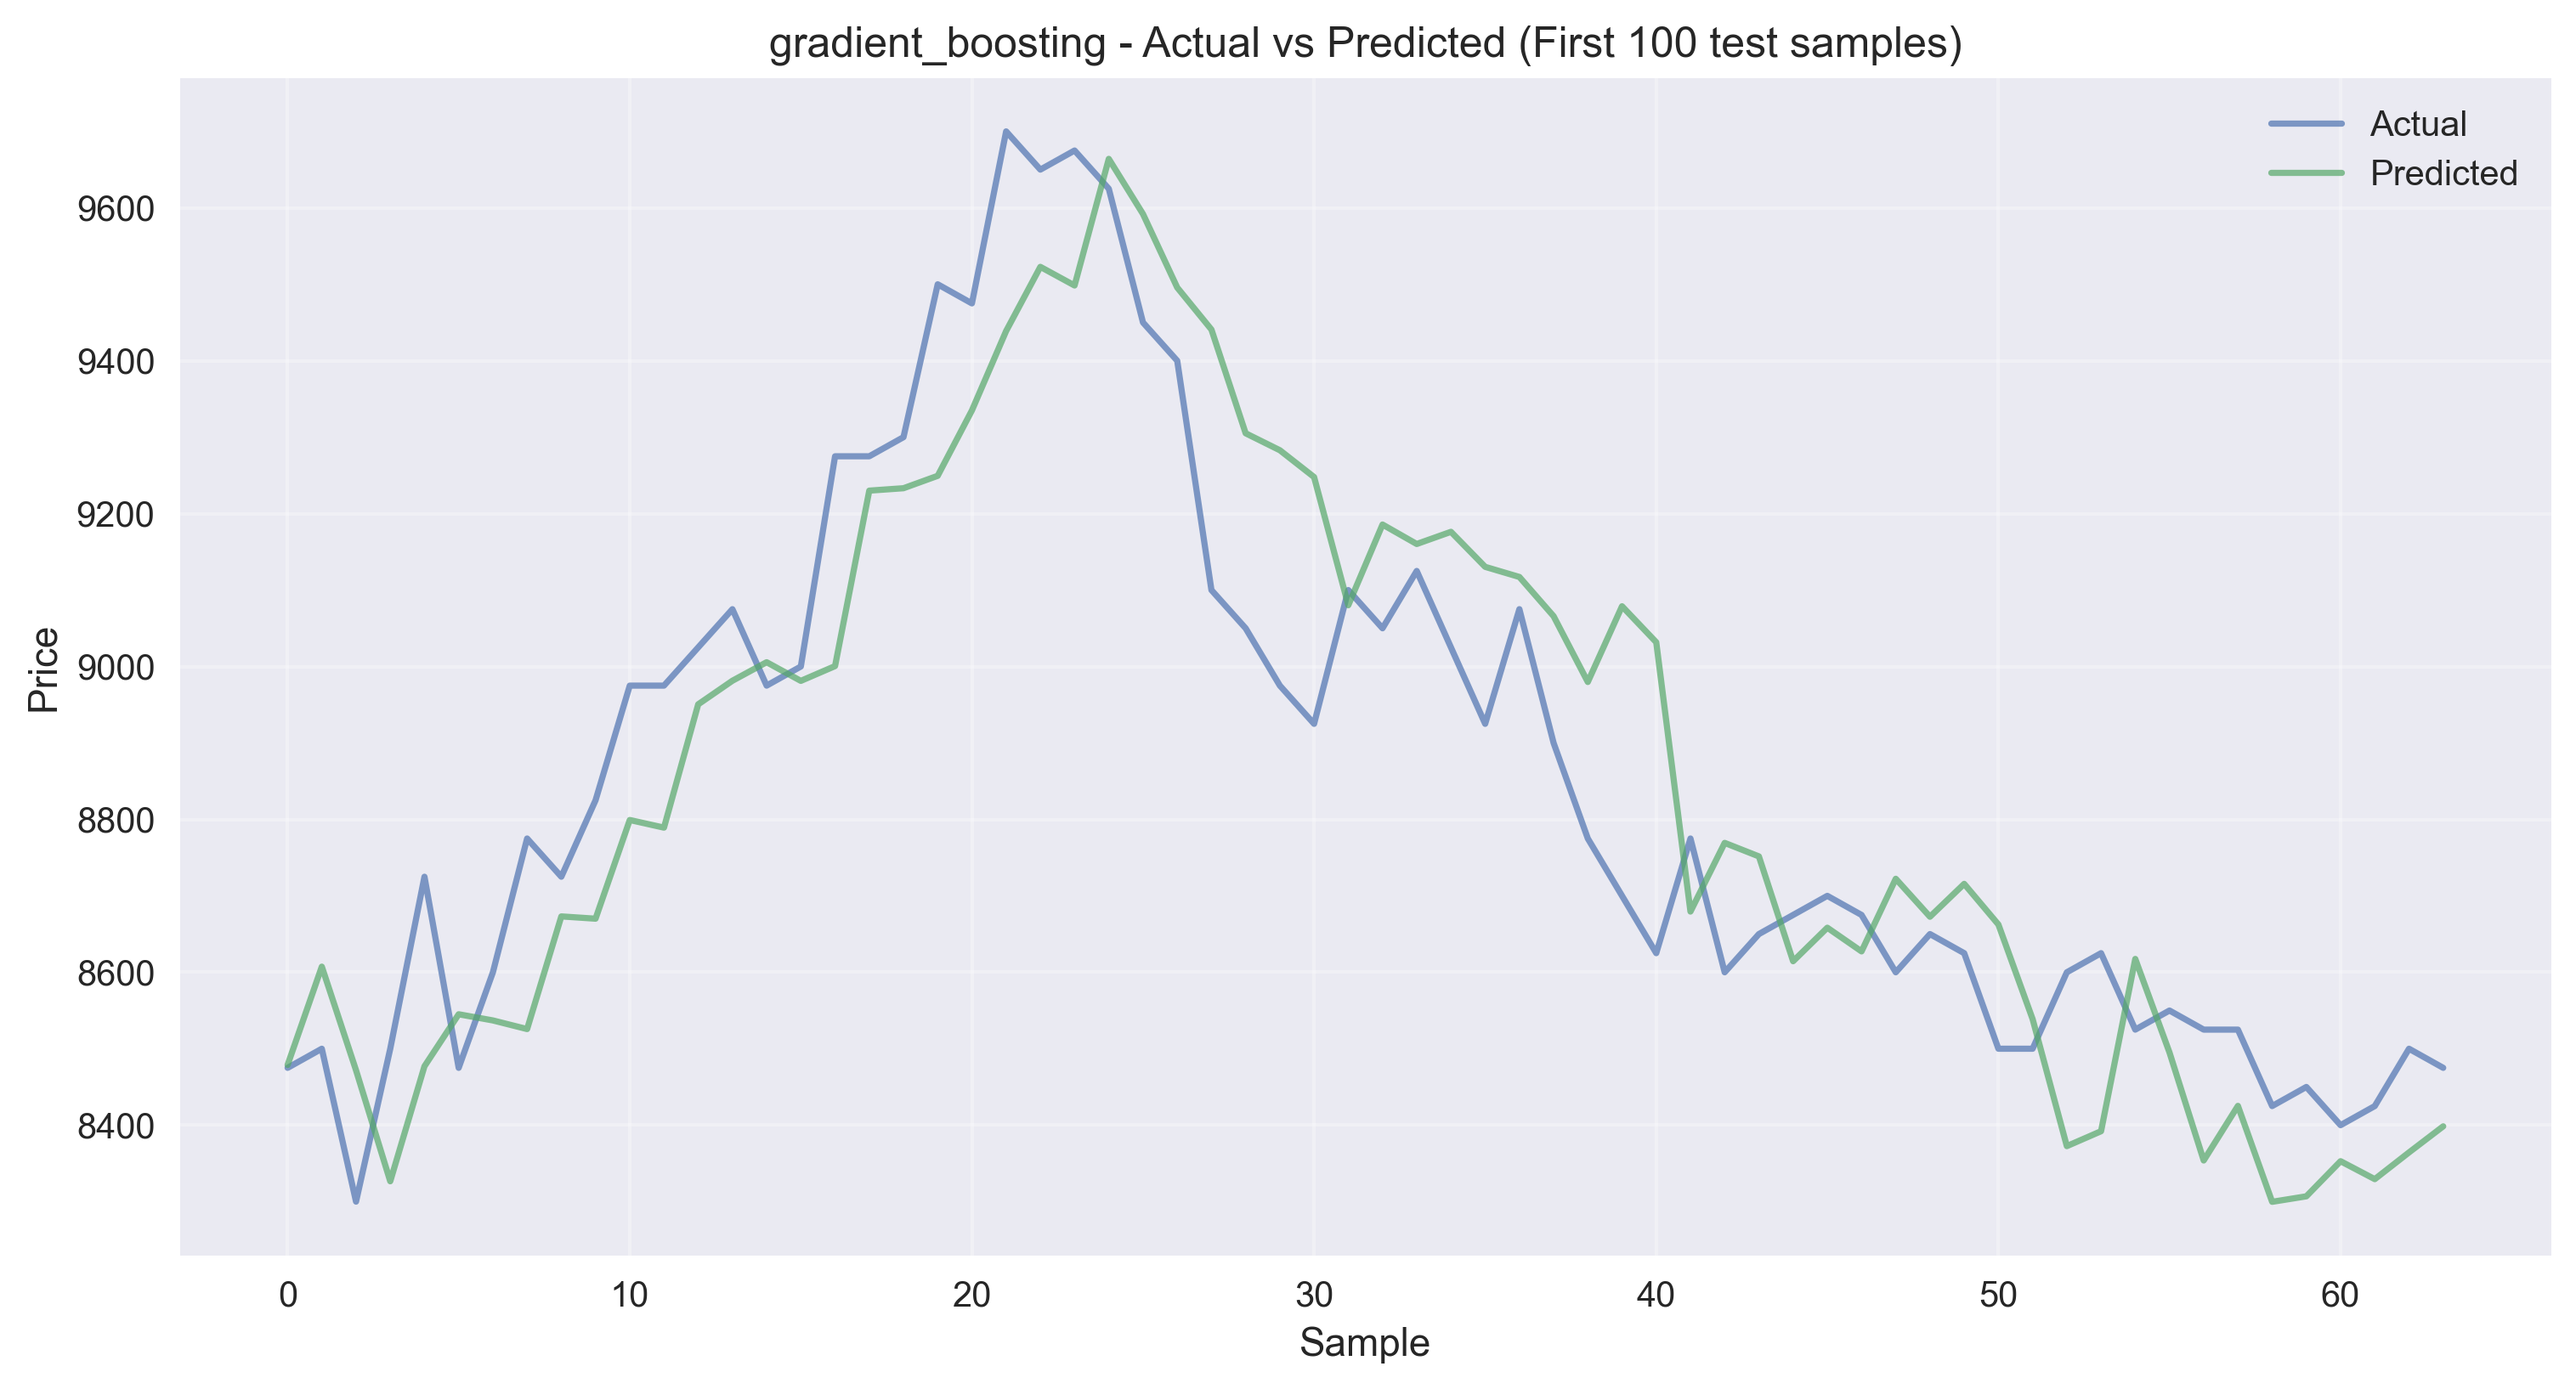
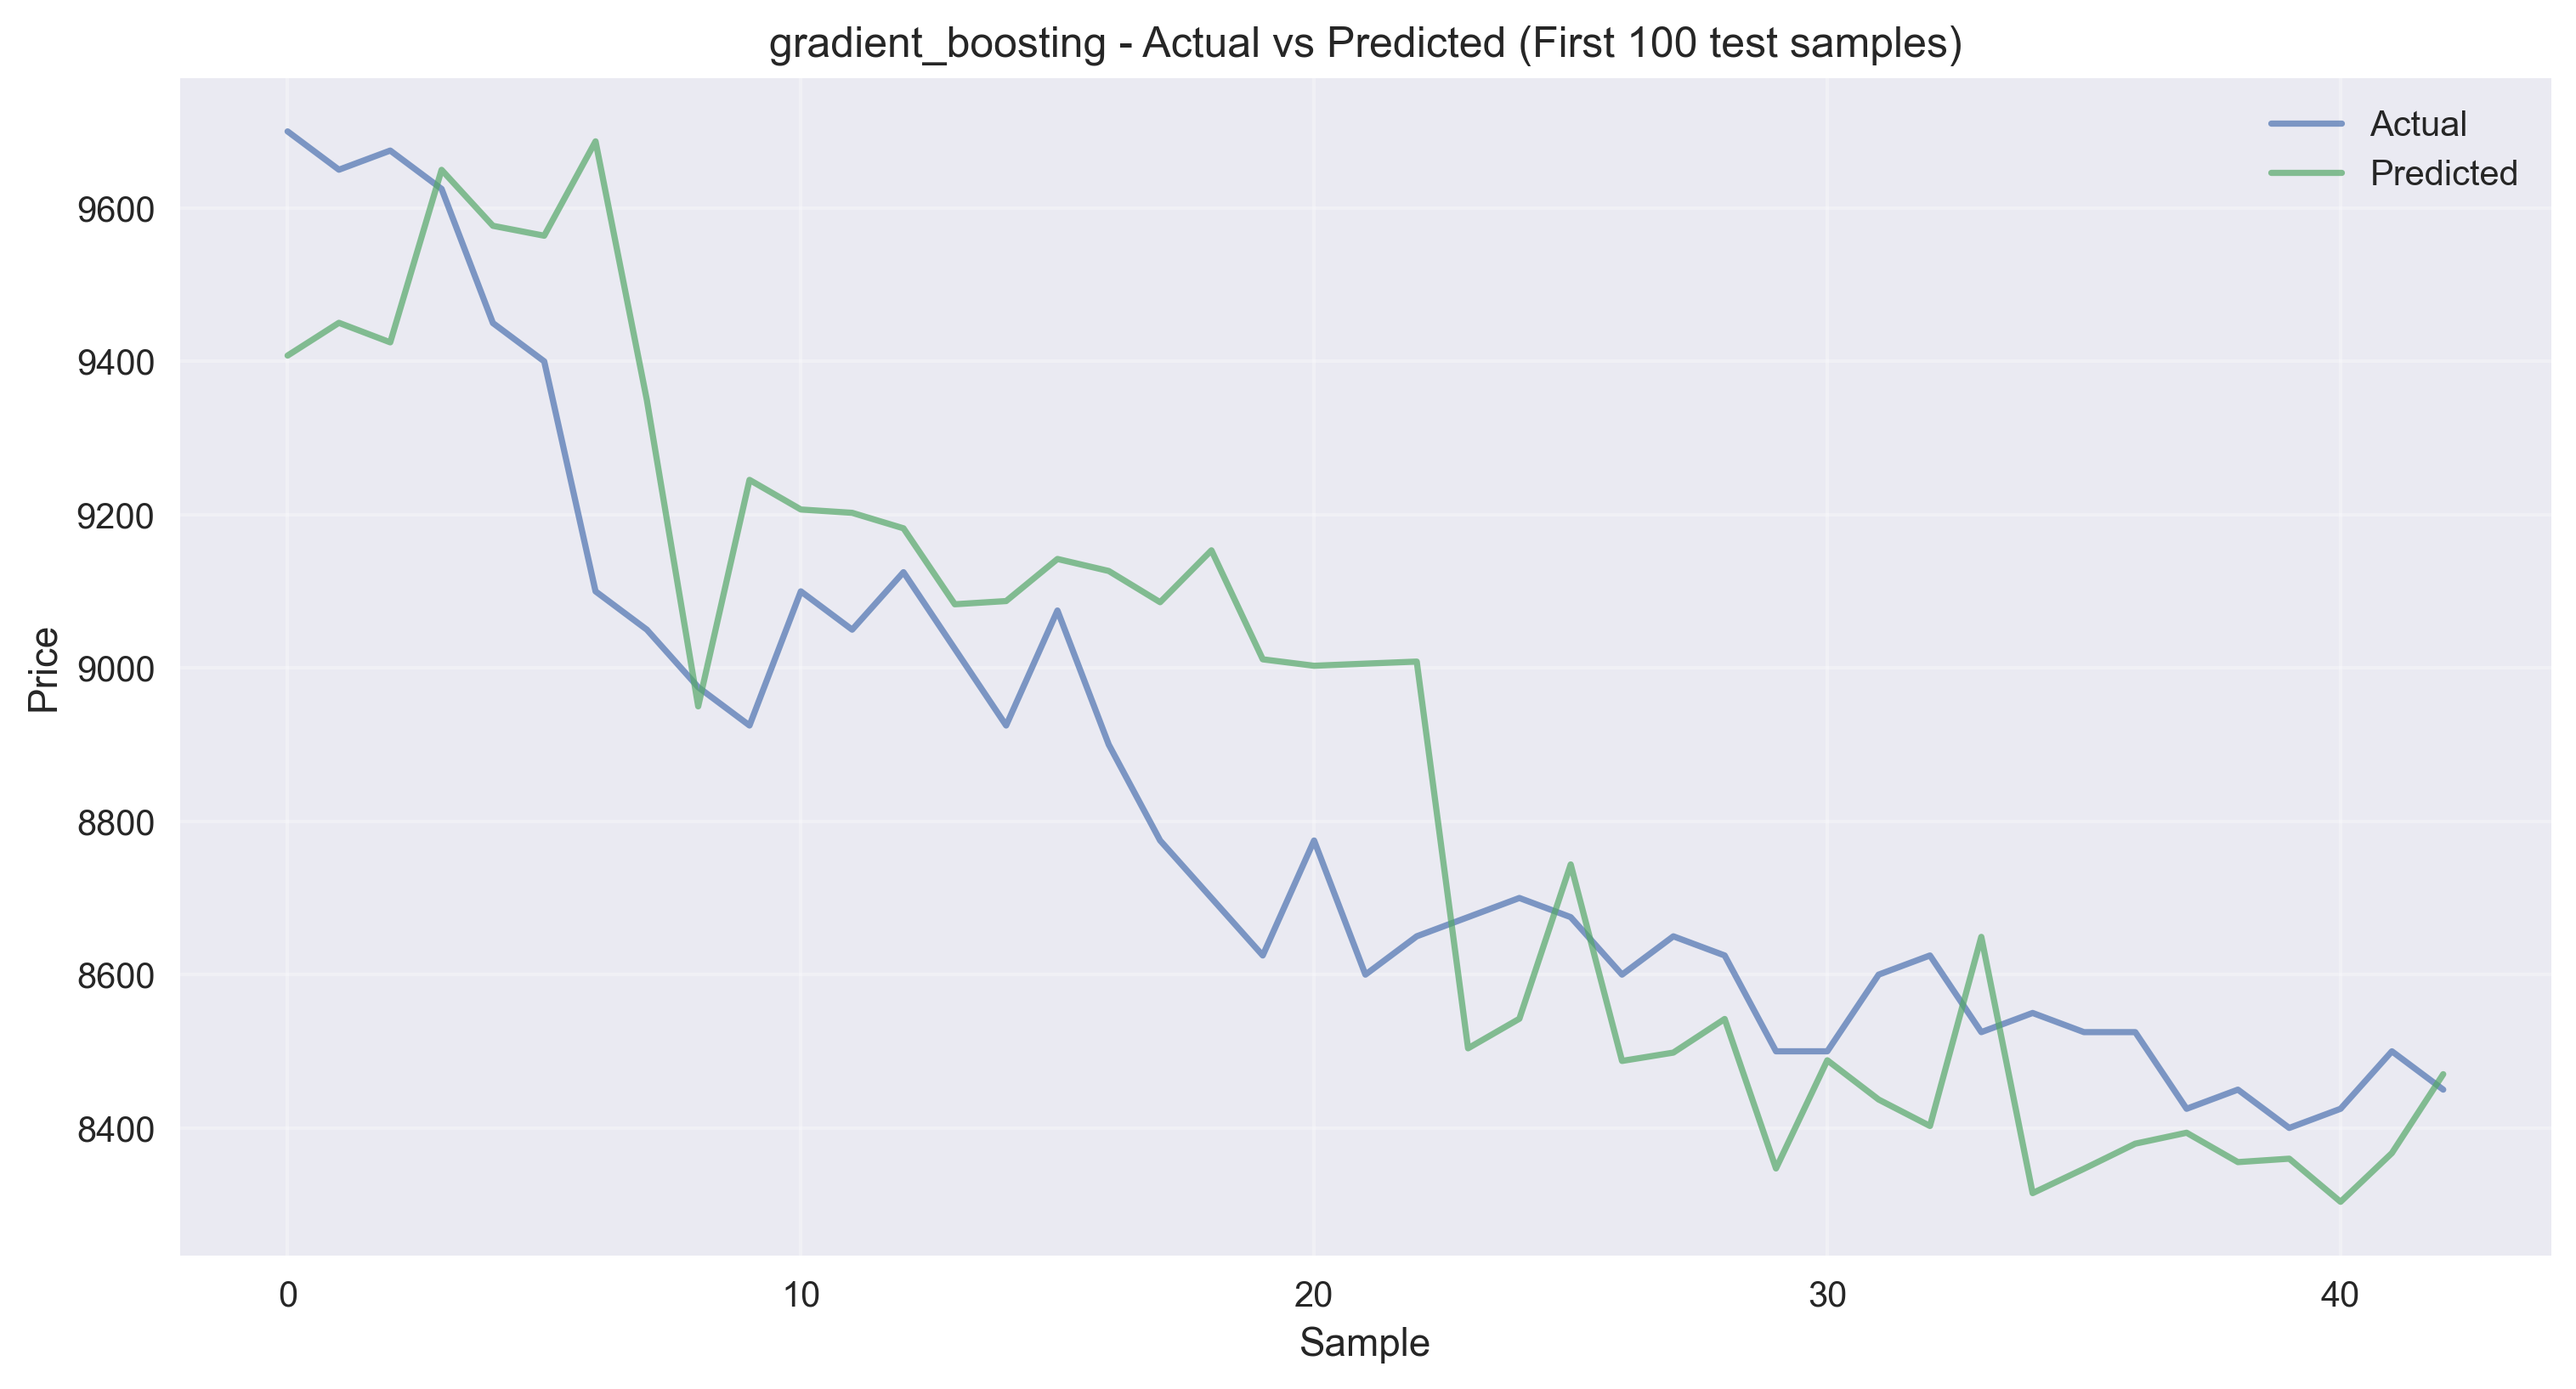
add baseline model fig

diff --git a/main.py b/main.py
@@ -4,14 +4,16 @@ import numpy as np
 from datetime import datetime, timedelta
 import warnings
 import os
+
 warnings.filterwarnings('ignore')
 
 # Machine Learning Libraries
 from sklearn.model_selection import train_test_split, TimeSeriesSplit
-from sklearn.preprocessing import StandardScaler, MinMaxScaler
+from sklearn.preprocessing import StandardScaler, MinMaxScaler, RobustScaler
 from sklearn.ensemble import RandomForestRegressor, GradientBoostingRegressor
+from sklearn.neural_network import MLPRegressor
 from sklearn.linear_model import LinearRegression
-from sklearn.metrics import mean_squared_error, mean_absolute_error, r2_score, accuracy_score, precision_score, recall_score, f1_score, roc_auc_score, classification_report, confusion_matrix
+from sklearn.metrics import mean_squared_error, mean_absolute_error, r2_score
 
 # Optional libraries - handle import errors gracefully
 try:
@@ -32,6 +34,10 @@ except ImportError:
 import mlflow
 import mlflow.sklearn
 from mlflow.tracking import MlflowClient
+from mlflow.types.schema import Schema, ColSpec
+from mlflow.models.signature import ModelSignature
+
+mlflow.end_run()  # Ensure no previous runs are active
 
 # Optional MLflow integrations
 if XGB_AVAILABLE:
@@ -75,7 +81,7 @@ class StockPriceRegressor:
         self.target = None
         self.scaler = StandardScaler()
         self.models = {}
-        
+
         # Initialize MLflow
         mlflow.set_experiment(self.experiment_name)
         
@@ -143,7 +149,7 @@ class StockPriceRegressor:
         
         plt.tight_layout()
         plt.savefig('data_exploration.png', dpi=300, bbox_inches='tight')
-        plt.show()
+        # plt.show()
         
     def engineer_features(self):
         """
@@ -243,9 +249,18 @@ class StockPriceRegressor:
         self.features = df[feature_cols]
         self.target = df['Target']
         
+        # Create Schema for MLflow model signature
+        input_schema = Schema([
+            ColSpec("double", col) for col in feature_cols
+            
+        ])
+        output_schema = Schema([ColSpec("double")])
+        self.signature = ModelSignature(inputs=input_schema, outputs=output_schema)
+
         print(f"Features created: {len(feature_cols)}")
         print(f"Final dataset shape: {df.shape}")
         print(f"Feature columns: {feature_cols[:10]}...")  # Show first 10 features
+        # print(f"Feature types:\n{self.features.dtypes}")
         
         return self.features, self.target
     
@@ -257,13 +272,7 @@ class StockPriceRegressor:
             X_test: Test features
             y_test: Test target values
         """
-        print("\n=== Creating Baseline Models ===")
-        
-        # Naive forecast (previous day's price)
-        naive_pred = X_test['Close_Lag_1'].values
-        naive_rmse = np.sqrt(mean_squared_error(y_test, naive_pred))
-        naive_mae = mean_absolute_error(y_test, naive_pred)
-        naive_r2 = r2_score(y_test, naive_pred)
+        print("\n=== Creating Baseline Model(s) ===")
         
         # Moving average forecast
         ma_pred = X_test['MA_5'].values
@@ -272,16 +281,40 @@ class StockPriceRegressor:
         ma_r2 = r2_score(y_test, ma_pred)
         
         baselines = {
-            'naive': {'rmse': naive_rmse, 'mae': naive_mae, 'r2': naive_r2},
             'moving_average': {'rmse': ma_rmse, 'mae': ma_mae, 'r2': ma_r2}
         }
         
-        print(f"Naive forecast RMSE: {naive_rmse:.4f}")
+        with mlflow.start_run(run_name=f"baseline_model_{self.stock_symbol}"):
+            mlflow.log_param("model_type", "Baseline Model: Moving Average 5 Days")
+            mlflow.log_param("stock_symbol", self.stock_symbol)
+            mlflow.log_param("test_size", np.nan)
+            mlflow.log_param("n_features", 1)
+            mlflow.log_param("train_size", np.nan)
+            mlflow.log_metric("rmse", baselines['moving_average']['rmse'])
+            mlflow.log_metric("mae", baselines['moving_average']['mae'])
+            mlflow.log_metric("r2_score", baselines['moving_average']['r2'])
+            mlflow.log_metric("improvement_over_ma", 0)
+            
+            #plot moving average predictions
+            os.makedirs('regressor_image', exist_ok=True)
+            plt.figure(figsize=(12, 6))
+            plt.plot(y_test.values[:100], label='Actual', alpha=0.7)
+            plt.plot(ma_pred[:100], label='Predicted', alpha=0.7)
+            plt.title(f'baseline - Actual vs Predicted (First 100 test samples)')
+            plt.xlabel('Sample')
+            plt.ylabel('Price')
+            plt.legend()
+            plt.grid(True, alpha=0.3)
+            plot_path = f'regressor_image/baseline_predictions.png'
+            plt.savefig(plot_path, dpi=300, bbox_inches='tight')
+            mlflow.log_artifact(plot_path)
+            plt.close()
+            
         print(f"Moving average RMSE: {ma_rmse:.4f}")
         
         return baselines
     
-    def train_models(self, test_size=0.15, random_state=42):
+    def train_models(self, test_size=0.1, random_state=42):
         """
         Train multiple regression models and track experiments with MLflow.
         
@@ -315,20 +348,29 @@ class StockPriceRegressor:
         models_config = {
             'linear_regression': LinearRegression(),
             'random_forest': RandomForestRegressor(n_estimators=200,max_depth=8, random_state=random_state),
-            'gradient_boosting': GradientBoostingRegressor(n_estimators=200,max_depth=8, random_state=random_state)
+            'gradient_boosting': GradientBoostingRegressor(n_estimators=200,max_depth=8, random_state=random_state),
+            # 'mlp_regressor': MLPRegressor(hidden_layer_sizes=(256, 128), 
+            #                               max_iter=1000,
+            #                               shuffle=False,
+            #                               learning_rate_init=0.001,
+            #                               learning_rate='adaptive',
+            #                               early_stopping=True, 
+            #                               random_state=random_state)
         }
         
         # Add XGBoost if available
         if XGB_AVAILABLE:
-            models_config['xgboost'] = xgb.XGBRegressor(n_estimators=200, max_depth=8, random_state=random_state)
+            models_config['xgboost'] = xgb.XGBRegressor(n_estimators=200, max_depth=16, random_state=random_state)
         
         # Add LightGBM if available
         if LGB_AVAILABLE:
-            models_config['lightgbm'] = lgb.LGBMRegressor(n_estimators=200, max_depth=8, random_state=random_state, verbose=-1)
+            models_config['lightgbm'] = lgb.LGBMRegressor(n_estimators=200, max_depth=16, random_state=random_state, verbose=-1)
         
         best_model = None
         best_rmse = float('inf')
         
+        
+
         # Train each model
         for model_name, model in models_config.items():
             with mlflow.start_run(run_name=f"{model_name}_{self.stock_symbol}"):
@@ -362,17 +404,15 @@ class StockPriceRegressor:
                 mlflow.log_metric("r2_score", r2)
                 
                 # Log baseline comparison
-                mlflow.log_metric("baseline_naive_rmse", baselines['naive']['rmse'])
-                mlflow.log_metric("baseline_ma_rmse", baselines['moving_average']['rmse'])
                 mlflow.log_metric("improvement_over_ma", (baselines['moving_average']['rmse'] - rmse) / baselines['moving_average']['rmse'])
                 
                 # Log model with appropriate MLflow integration
                 if model_name == 'xgboost' and XGB_AVAILABLE:
-                    mlflow.xgboost.log_model(model, name="model")
+                    mlflow.xgboost.log_model(model, name="model",signature=self.signature)
                 elif model_name == 'lightgbm' and LGB_AVAILABLE:
-                    mlflow.lightgbm.log_model(model, name="model")
+                    mlflow.lightgbm.log_model(model, name="model",signature=self.signature)
                 else:
-                    mlflow.sklearn.log_model(model, name="model")
+                    mlflow.sklearn.log_model(model, name="model",signature=self.signature)
                 
                 # Create and log prediction plot
                 os.makedirs('regressor_image', exist_ok=True)
@@ -414,11 +454,11 @@ class StockPriceRegressor:
             
             best_model_obj = self.models[best_model]['model']
             if best_model == 'xgboost' and XGB_AVAILABLE:
-                mlflow.xgboost.log_model(best_model_obj, name="best_model", registered_model_name=f"{self.stock_symbol}_regressor")
+                mlflow.xgboost.log_model(best_model_obj, name="best_model", registered_model_name=f"{self.stock_symbol}_regressor",signature=self.signature)
             elif best_model == 'lightgbm' and LGB_AVAILABLE:
-                mlflow.lightgbm.log_model(best_model_obj, name="best_model", registered_model_name=f"{self.stock_symbol}_regressor")
+                mlflow.lightgbm.log_model(best_model_obj, name="best_model", registered_model_name=f"{self.stock_symbol}_regressor",signature=self.signature)
             else:
-                mlflow.sklearn.log_model(best_model_obj, name="best_model", registered_model_name=f"{self.stock_symbol}_regressor")
+                mlflow.sklearn.log_model(best_model_obj, name="best_model", registered_model_name=f"{self.stock_symbol}_regressor",signature=self.signature)
         
         return self.models, best_model
     
@@ -526,7 +566,7 @@ if __name__ == "__main__":
     # main()
     
     # Or run only regression:
-    run_regression_only()
+    run_regression()
     
     # Or run only classification:
     # run_classification_only()
